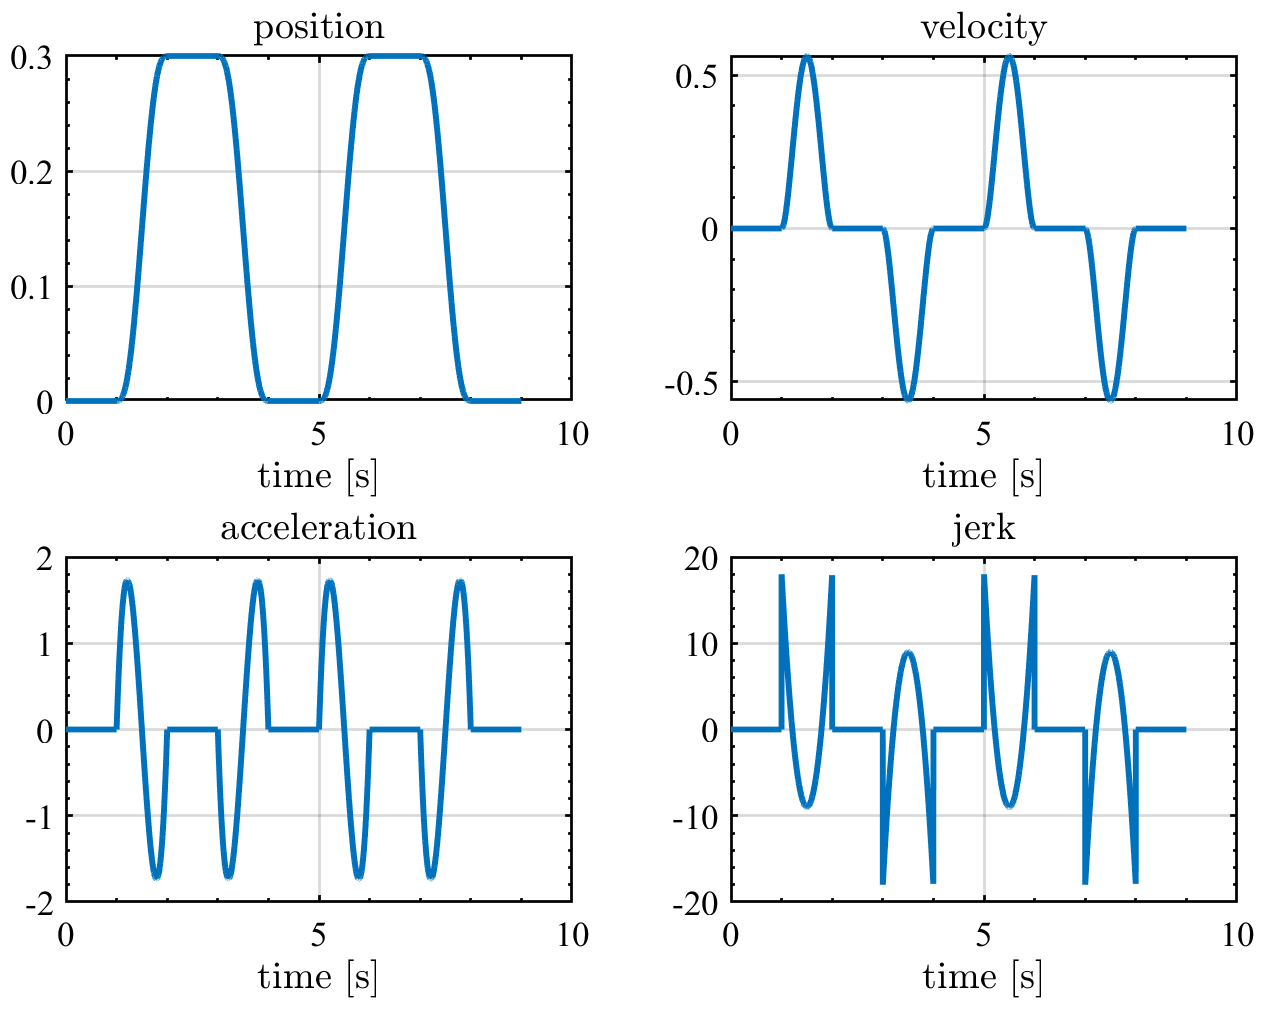
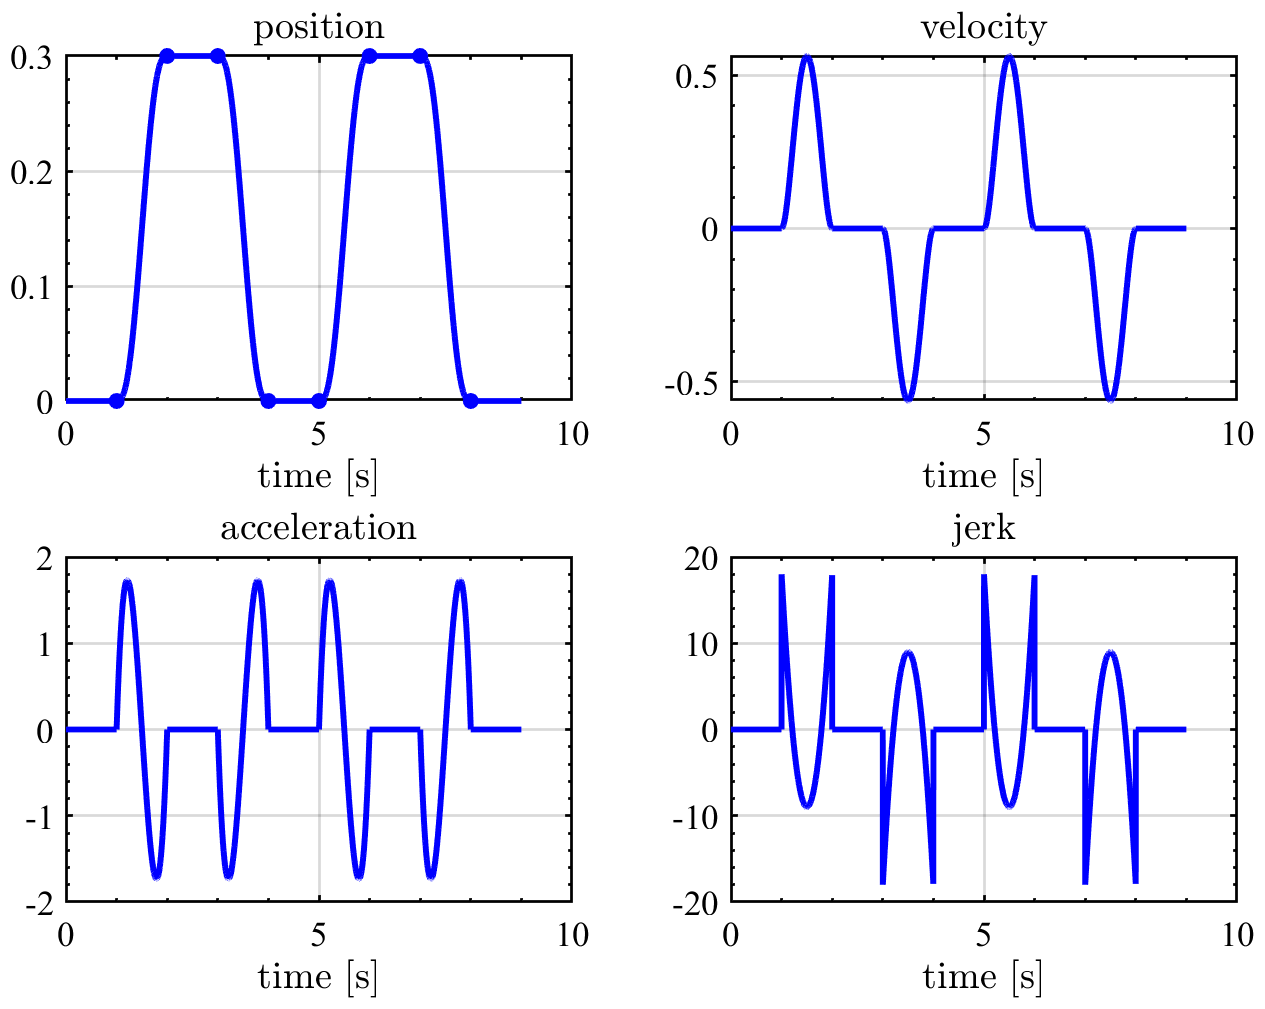
add constraint in plot

diff --git a/docs/ex3_backandforth_vel.m b/docs/ex3_backandforth_vel.m
@@ -16,13 +16,13 @@ BCt = [tdwell,... % dwell
     tdwell+tacc+tvel+tdec+tdwell+tacc+tvel,... % const vel
     tdwell+tacc+tvel+tdec+tdwell+tacc+tvel+tdec,... % decelerate
     ];
-BCt = [BCt,BCt+BCt(end)]; % twice
+% BCt = [BCt,BCt+BCt(end)]; % twice
 
 % max velocity
 vmax = 0.5; % m/s
 % velocity boundary conditions
 BCv = [0, vmax, vmax, 0, 0, -vmax, -vmax, 0];
-BCv = [BCv, BCv];
+% BCv = [BCv, BCv];
 
 % polynomial order
 np = 5;
@@ -35,7 +35,7 @@ pBasis = backandforth(trajType,BCt,BC,np);
 
 %% Plot
 Ts = 1e-3;
-t = 0:Ts:15;
+t = 0:Ts:8;
 y1 = outPolyBasis(pBasis,1,t);
 y2 = outPolyBasis(pBasis,2,t);
 y3 = outPolyBasis(pBasis,3,t);
@@ -43,19 +43,20 @@ y4 = outPolyBasis(pBasis,4,t);
 
 hfig = figure;
 subplot(2,2,1);
-plot(t,y1);
+plot(t,y1,'b'); hold on;
 xlabel('time [s]');
 title('position');
 subplot(2,2,2);
-plot(t,y2);
+plot(t,y2,'b'); hold on;
 xlabel('time [s]');
 title('velocity');
+scatter(BCt,BCv, 'b', 'filled');
 subplot(2,2,3);
-plot(t,y3);
+plot(t,y3,'b'); hold on;
 xlabel('time [s]');
 title('acceleration');
 subplot(2,2,4);
-plot(t,y4);
+plot(t,y4,'b'); hold on;
 xlabel('time [s]');
 title('jerk');
 

diff --git a/docs/ex1_step.m b/docs/ex1_step.m
@@ -23,19 +23,23 @@ y4 = outPolyBasis(pBasis,4,t);
 
 hfig = figure; 
 subplot(2,2,1);
-plot(t,y1);
+plot(t,y1,'b'); hold on;
+scatter([t0,t1],[initval(1),finval(1)], 'b', 'filled');
 xlabel('time [s]');
 title('position');
 subplot(2,2,2);
-plot(t,y2);
+plot(t,y2,'b'); hold on;
+scatter([t0,t1],[initval(2),finval(2)], 'b', 'filled');
 xlabel('time [s]');
 title('velocity');
 subplot(2,2,3);
-plot(t,y3);
+plot(t,y3,'b'); hold on;
+scatter([t0,t1],[initval(3),finval(3)], 'b', 'filled');
 xlabel('time [s]');
 title('acceleration');
 subplot(2,2,4);
-plot(t,y4);
+plot(t,y4,'b'); hold on;
+scatter([t0,t1],[initval(4),finval(4)], 'b', 'filled');
 xlabel('time [s]');
 title('jerk');
 

diff --git a/docs/ex2_backandforth_pos.m b/docs/ex2_backandforth_pos.m
@@ -34,19 +34,20 @@ y4 = outPolyBasis(pBasis,4,t);
 
 hfig = figure;
 subplot(2,2,1);
-plot(t,y1);
+plot(t,y1,'b-'); hold on
+scatter(BCt,BCp, 'b', 'filled');
 xlabel('time [s]');
 title('position');
 subplot(2,2,2);
-plot(t,y2);
+plot(t,y2,'b-');
 xlabel('time [s]');
 title('velocity');
 subplot(2,2,3);
-plot(t,y3);
+plot(t,y3,'b-');
 xlabel('time [s]');
 title('acceleration');
 subplot(2,2,4);
-plot(t,y4);
+plot(t,y4,'b-');
 xlabel('time [s]');
 title('jerk');
 
